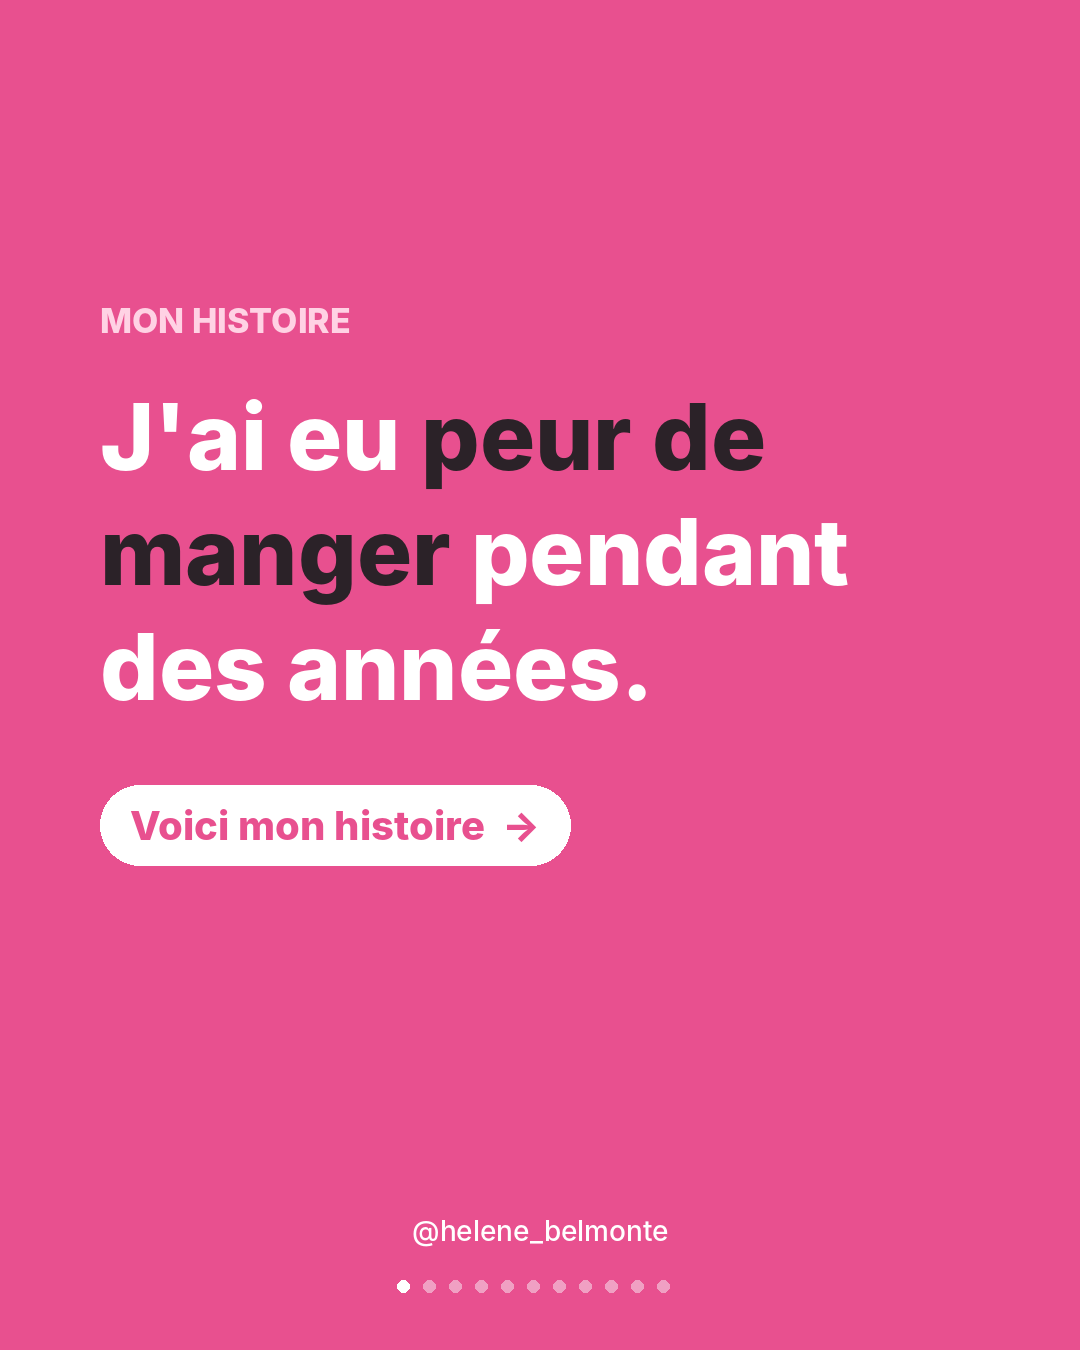
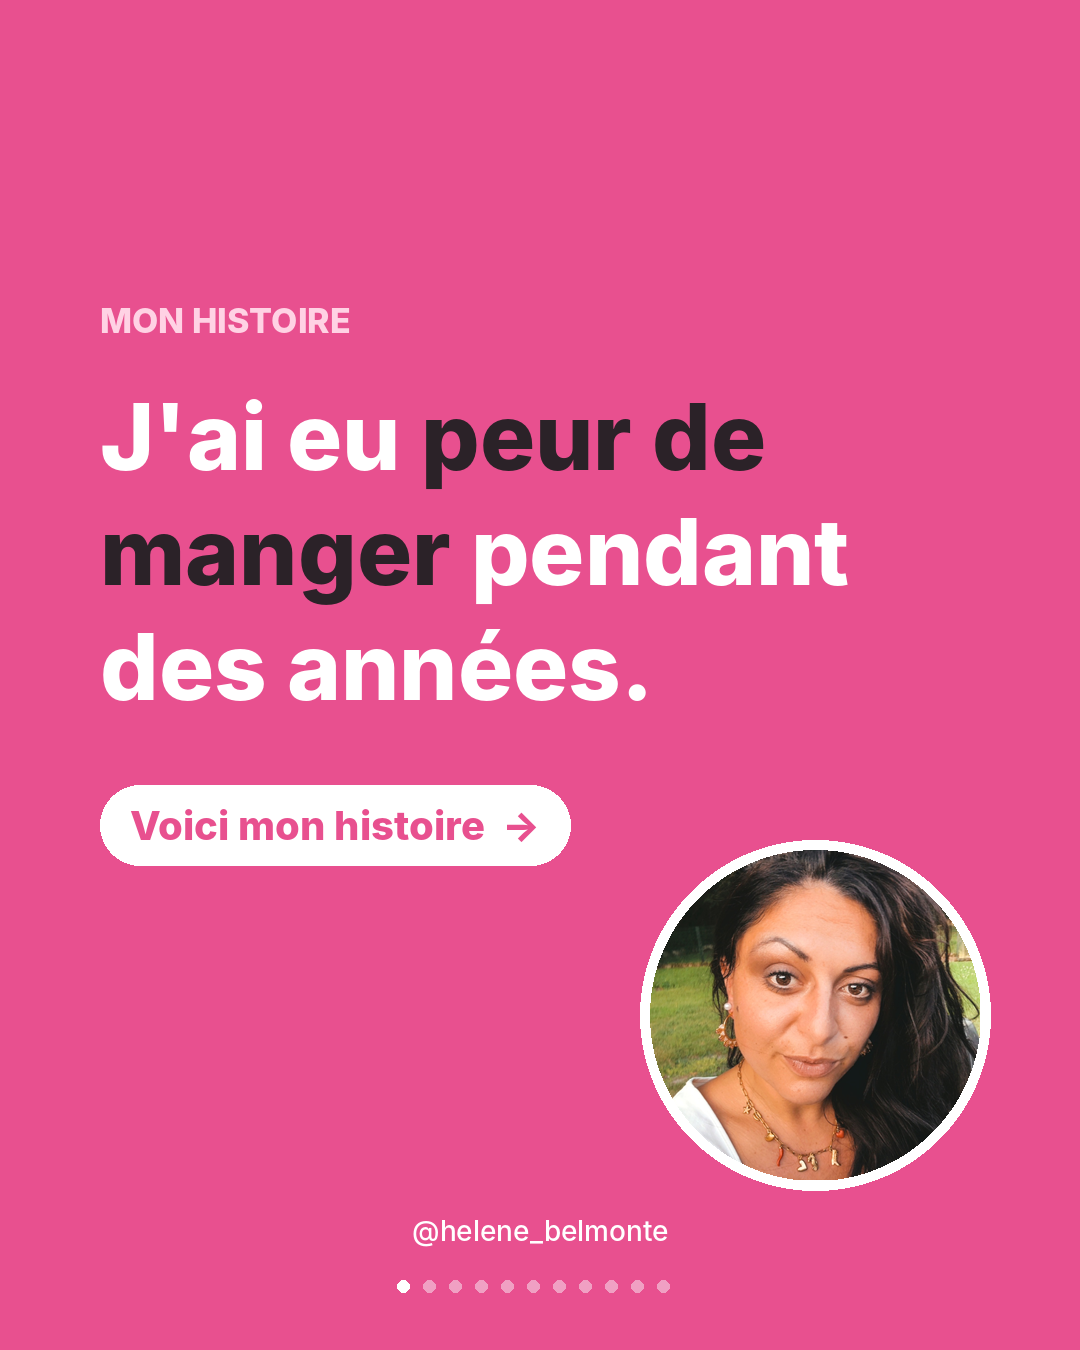
Carrousel Mon histoire : photos d'Hélène en couverture et slide 9
Claude-Session: https://claude.ai/code/session_01Qu7Kbk7XztmX7tXcsqwXcr

Changed region(s): [[0.5806, 0.6222, 0.9167, 0.9022]]

diff --git a/scripts/carrousel_mon_histoire.py b/scripts/carrousel_mon_histoire.py
@@ -69,7 +69,7 @@ slides = [
  ("txt", "05", "Aide-soignante, *horaires décalés*, journées à rallonge, repas sur le pouce…\n\nAucune méthode n'était faite pour *MA vie.*"),
  ("pink", "Le déclic", "J'ai enfin compris que la privation ne servait à rien."),
  ("photo", "", "Grâce au *rééquilibrage alimentaire*, j'ai perdu *du poids.*\n\nEt je ne l'ai *jamais repris.*"),
- ("txt", "Aujourd'hui", "Je n'ai *plus peur de manger.* Je me fais *plaisir à chaque repas.*\n\nEt j'ai trouvé un sport que j'aime, qui me donne envie de me lever le matin."),
+ ("photo", "Aujourd'hui", "Je n'ai *plus peur de manger.* Je me fais *plaisir à chaque repas.*\n\nEt j'ai trouvé un sport que j'aime, qui me donne envie de me lever le matin."),
  ("pink", "Ma plus belle décision", "Prendre du temps pour moi et investir en moi."),
  ("cta", "", ""),
 ]
@@ -87,6 +87,11 @@ for i, (kind, a, b) in enumerate(slides):
             y += 115
         d.rounded_rectangle((100, y + 60, 100 + d.textlength(b + "  →", font=XB(40)) + 60, y + 140), 40, fill=WHITE)
         d.text((130, y + 100), b + "  →", font=XB(40), fill=PINK, anchor="lm")
+        R = 330; cx, cy = W - 100 - R // 2, H - 170 - R // 2      # sa photo de profil « jardin » en rond (26/11)
+        pr = Image.open("contenus/photos/photo_profil_finale.jpg").convert("RGB").resize((R, R), Image.LANCZOS)
+        mk = Image.new("L", (R, R), 0); ImageDraw.Draw(mk).ellipse((0, 0, R, R), fill=255)
+        d.ellipse((cx - R // 2 - 10, cy - R // 2 - 10, cx + R // 2 + 10, cy + R // 2 + 10), fill=WHITE)
+        im.paste(pr, (cx - R // 2, cy - R // 2), mk)
     elif kind == "txt":
         im, d = base(i, n)
         d.text((100, 200), a, font=XB(60 if len(a) > 2 else 110), fill=SOFT if len(a) <= 2 else PINK)
@@ -102,10 +107,14 @@ for i, (kind, a, b) in enumerate(slides):
             d.text((W / 2, y), t, font=XB(78), fill=WHITE, anchor="mm"); y += 100
     elif kind == "photo":
         im, d = base(i, n)
-        ph = ImageOps.exif_transpose(Image.open(os.path.join(os.path.dirname(OUT), "photo.jpg")).convert("RGB"))
+        # slide 8 : photo salle ; slide « Aujourd'hui » : photo veste kaki bras croisés (choix 26/11)
+        if a == "Aujourd'hui":
+            ph = ImageOps.exif_transpose(Image.open("contenus/photos/photo_banniere_originale.jpg").convert("RGB")); fx, fw = 0.32, 0.56
+        else:
+            ph = ImageOps.exif_transpose(Image.open(os.path.join(os.path.dirname(OUT), "photo.jpg")).convert("RGB")); fx, fw = 0.47, 0.42
         pw, phh = ph.size
-        PW = 500; cw = int(pw * 0.42); ch = int(cw * H / PW)
-        x0 = int(pw * 0.47); y0 = 0
+        PW = 500; cw = int(pw * fw); ch = min(phh, int(cw * H / PW)); cw = int(ch * PW / H)
+        x0 = int(pw * fx); y0 = 0
         ph = ph.crop((x0, y0, x0 + cw, y0 + ch)).resize((PW, H), Image.LANCZOS)
         im.paste(ph, (W - PW, 0))
         d = ImageDraw.Draw(im)
@@ -115,7 +124,8 @@ for i, (kind, a, b) in enumerate(slides):
         for k in range(n):
             d.ellipse((xx, H - 70, xx + 10, H - 60), fill=PINK if k == i else SOFT); xx += 22
         d.text(((W - PW) / 2, H - 115), "@helene_belmonte", font=RG(26), fill=PINK, anchor="mm")
-        draw_rich(d, b, XB(54), 330, maxw=W - PW - 120, lh=1.25, x0=60)
+        if a: d.text((60, 200), a, font=XB(52), fill=PINK)
+        draw_rich(d, b, XB(54 if not a else 46), 330, maxw=W - PW - 120, lh=1.25, x0=60)
     elif kind == "cta":
         im, d = base(i, n, PINK)
         d.text((W / 2, 300), "Tu te reconnais ?", font=XB(80), fill=WHITE, anchor="mm")

diff --git a/CLAUDE.md b/CLAUDE.md
@@ -114,7 +114,7 @@ Règles des stories qui marchent (à appliquer) :
 ## Contenus déjà créés (à retrouver quand elle les redemande)
 | Date | Contenu | Dans le dépôt | Sur le Drive |
 |---|---|---|---|
-| 23/11/2026 | **Carrousel « Mon histoire »** (11 slides + légende), version finale validée avec sa photo de la salle en slide 8 ; **26/11 : « 10 kg » retiré (slide 8 + légende : « j'ai perdu du poids. Et je ne l'ai jamais repris »)** | `contenus/2026-11-23_carrousel_mon_histoire/` (script : `scripts/carrousel_mon_histoire.py`) | Montage perso → « Carrousel Mon histoire (23-11) » (`1U1q6-yKFjZ0s7DTPMM3IOsDEJfJ3oK1a`) |
+| 23/11/2026 | **Carrousel « Mon histoire »** (11 slides + légende), version finale validée avec sa photo de la salle en slide 8 ; **26/11 : « 10 kg » retiré (slide 8 + légende : « j'ai perdu du poids. Et je ne l'ai jamais repris »)** ; **26/11 : plus de photos d'elle** : sa photo « jardin » en rond sur la couverture (slide 1) et sa photo veste kaki bras croisés à droite de la slide 9 « Aujourd'hui » | `contenus/2026-11-23_carrousel_mon_histoire/` (script : `scripts/carrousel_mon_histoire.py`) | Montage perso → « Carrousel Mon histoire (23-11) » (`1U1q6-yKFjZ0s7DTPMM3IOsDEJfJ3oK1a`) |
 | 23/11/2026 | Story « Marche en pente » (texte incrusté sur la vidéo du tapis) | `contenus/2026-11-23_story_marche_en_pente/` | Pas sur le Drive (fichier trop lourd pour l'envoi) |
 | 24/11/2026 | **Versions courtes (4 stories chacune) des stories à la une, choisies par Hélène** (elle ne veut pas « bombarder » ses stories ; elle peut les étaler sur plusieurs jours puis les ajouter depuis l'archive ; supprimer une story l'enlève aussi de la story à la une) | `contenus/2026-11-24_une_qui_suis_je_court/` et `contenus/2026-11-24_une_mon_programme_court/` | Montage perso → « Stories à la une courtes (24-11) » |
 | 24/11/2026 | Stories à la une « Qui suis-je », version longue (8 visuels natifs : Hélène, aide-soignante, ado complexée, coachs, déclic, 10 kg, mission, CTA DÉCLIC) | `contenus/2026-11-24_une_qui_suis_je/` | Montage perso → « Stories à la une (24-11) / Qui suis-je » |
